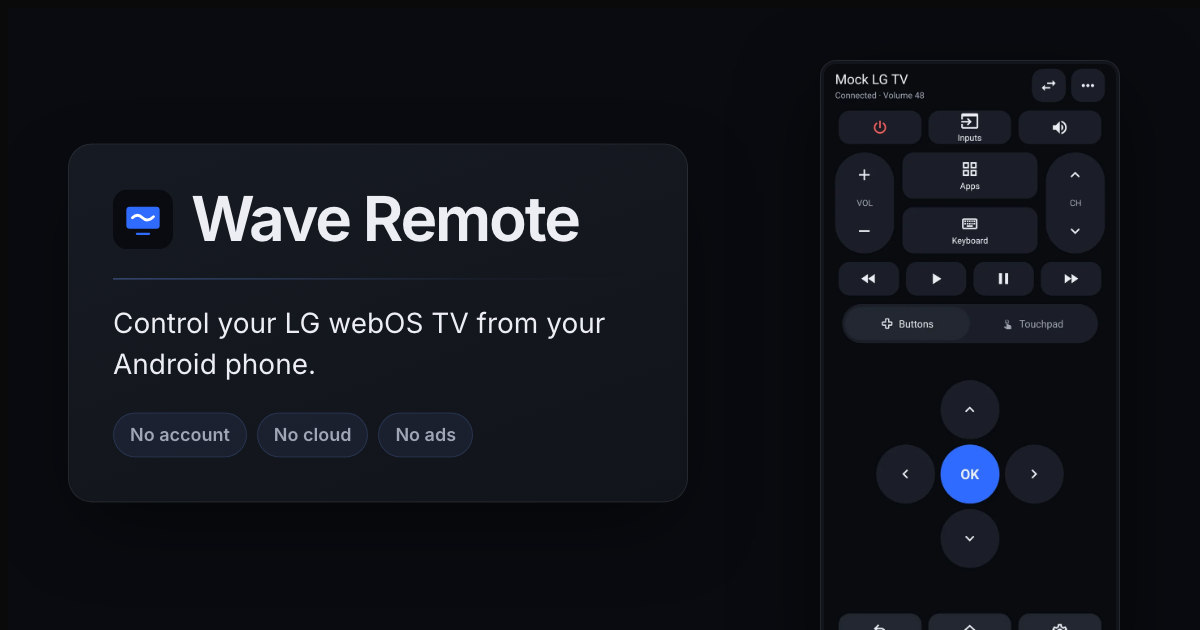
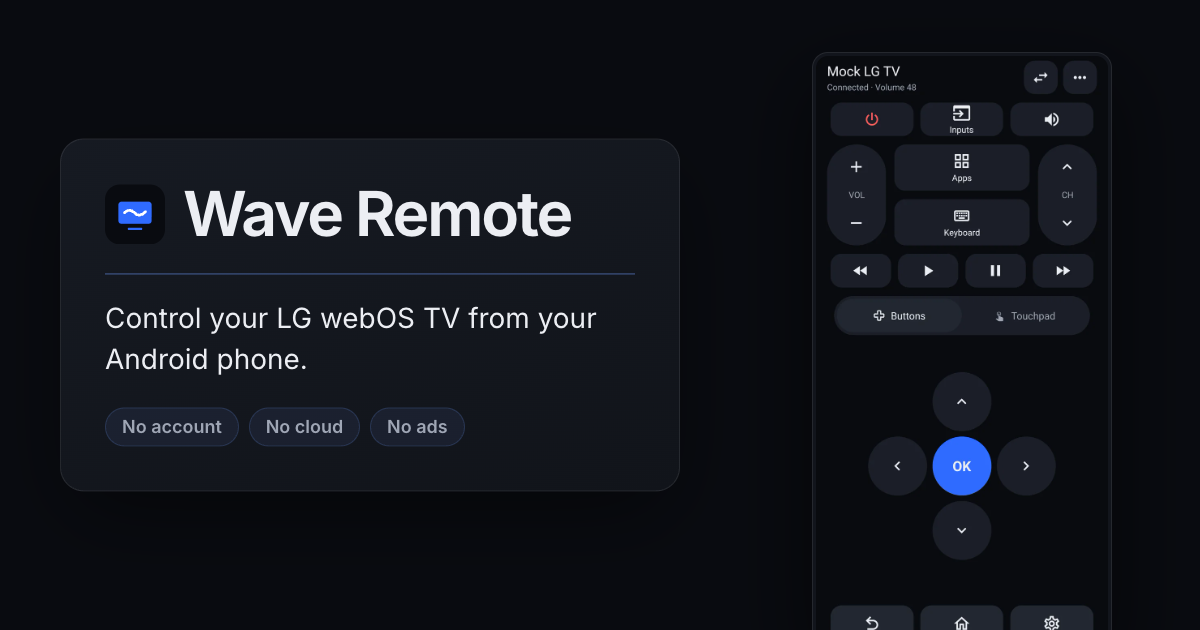
Render the README cover from the site brand card

diff --git a/site/og/card.html b/site/og/card.html
@@ -1,24 +1,24 @@
 <!doctype html>
-<!-- Link preview card (1200×630). Rendered to public/og.png by og/render.cjs. -->
+<!-- Brand card. Rendered by og/render.sh at 1200×630 (public/og.png) and 1280×640 (README cover). -->
 <html lang="en">
 <head>
 <meta charset="utf-8">
 <style>
   @font-face { font-family: 'Inter'; src: url('../node_modules/@fontsource-variable/inter/files/inter-latin-wght-normal.woff2') format('woff2'); font-weight: 100 900; }
   * { margin: 0; box-sizing: border-box; }
-  html, body { width: 1200px; height: 630px; overflow: hidden; }
+  html, body { width: 100vw; height: 100vh; overflow: hidden; }
   body { color: #eceef3; font-family: 'Inter', sans-serif; position: relative; -webkit-font-smoothing: antialiased;
     background: #090b10; }
-  .card { position: absolute; left: 60px; top: 50%; transform: translateY(-50%); width: 620px; padding: 44px; border-radius: 24px; border: 1px solid rgb(255 255 255 / 0.08);
+  .card { position: absolute; left: 5vw; top: 50%; transform: translateY(-50%); width: 51.67vw; padding: 3.67vw; border-radius: 2vw; border: 1px solid rgb(255 255 255 / 0.08);
     background: linear-gradient(160deg, #161a22, #11141a); box-shadow: 0 30px 80px -20px rgb(0 0 0 / 0.55); }
-  h1 { display: flex; align-items: center; gap: 18px; font-weight: 650; font-size: 62px; line-height: 1; letter-spacing: -0.035em; white-space: nowrap; }
-  h1 img { width: 60px; height: 60px; border-radius: 15px; }
-  .rule { height: 1px; margin: 28px 0 24px; background: linear-gradient(90deg, rgb(110 155 255 / 0.55), rgb(110 155 255 / 0.08) 70%, transparent); }
-  p { font-size: 28px; line-height: 1.45; font-weight: 400; max-width: 21em; }
-  .chips { margin-top: 28px; display: flex; gap: 10px; }
-  .chips span { padding: 8px 16px; border-radius: 999px; background: rgb(110 155 255 / 0.08); border: 1px solid rgb(110 155 255 / 0.16); font-size: 18px; font-weight: 600; color: #9fa6b5; }
-  .phone { position: absolute; left: 812px; top: 52px; width: 300px; padding: 4px; border-radius: 16px; background: #12151c; box-shadow: inset 0 0 0 1px rgb(255 255 255 / 0.08), 0 30px 80px rgb(0 0 0 / 0.55); }
-  .phone img { display: block; width: 100%; border-radius: 12px; }
+  h1 { display: flex; align-items: center; gap: 1.5vw; font-weight: 650; font-size: 5.17vw; line-height: 1; letter-spacing: -0.035em; white-space: nowrap; }
+  h1 img { width: 5vw; height: 5vw; border-radius: 1.25vw; }
+  .rule { height: 1px; margin: 2.33vw 0 2vw; background: rgb(110 155 255 / 0.55); }
+  p { font-size: 2.33vw; line-height: 1.45; font-weight: 400; max-width: 21em; }
+  .chips { margin-top: 2.33vw; display: flex; gap: 0.83vw; }
+  .chips span { padding: 0.67vw 1.33vw; border-radius: 999px; background: rgb(110 155 255 / 0.08); border: 1px solid rgb(110 155 255 / 0.16); font-size: 1.5vw; font-weight: 600; color: #9fa6b5; }
+  .phone { position: absolute; left: 67.67vw; top: 8.25vh; width: 25vw; padding: 0.33vw; border-radius: 1.33vw; background: #12151c; box-shadow: inset 0 0 0 1px rgb(255 255 255 / 0.08), 0 30px 80px rgb(0 0 0 / 0.55); }
+  .phone img { display: block; width: 100%; border-radius: 1vw; }
 </style>
 </head>
 <body>

diff --git a/site/README.md b/site/README.md
@@ -7,7 +7,7 @@ https://remote.vwave.me is the one-page download site: the APK download, an Add 
 - **Hosting:** Cloudflare Worker `wave-remote` on the `vwave.me` zone ([`wrangler.jsonc`](wrangler.jsonc)). Static files come from Vite's `dist/`.
 - **Release data:** [`worker/index.tsx`](worker/index.tsx) reads the latest GitHub release through the GitHub API, cached at the edge for ten minutes. It server-renders `/` with that release and embeds it so React hydrates without a flash, redirects `/download` to the `wave-remote-v*.apk` asset, and serves `/latest.json`. If GitHub can't be reached, the page shows generic text and `/download` opens the releases page.
 - **Screenshots:** `public/screens/*.webp` are scaled from `../docs/screenshots`; refresh them when the UI changes. Their `.json` sidecars record where they came from.
-- **Link preview:** `public/og.png` (1200×630) is rendered from [`og/card.html`](og/card.html) with the Buttons screenshot. After editing either, start a Chromium with `--remote-debugging-port=9222`, run `node og/render.cjs` with `playwright-core` available (set `CDP_URL` for another host), and commit the PNG.
+- **Brand art:** [`og/card.html`](og/card.html) is the brand card, with the Buttons screenshot. After editing either, run `og/render.sh` (headless Chrome; set `CHROME` for another binary) to write `public/og.png` (1200×630 link preview) and `../docs/brand/cover.png` (README cover, 1600 px wide), and commit both PNGs.
 
 Run `bun run dev` from the repository root or this directory to develop the site at
 http://localhost:4000. The Vite dev server renders the UI with generic release text;

diff --git a/docs/RELEASING.md b/docs/RELEASING.md
@@ -73,7 +73,7 @@ Do every step, in order. A version isn't done until the download site shows it.
    - `docs/screenshots/buttons.png` and `touchpad.png`: `adb exec-out screencap -p`, cropped to 1080×2170 from the top of the header to the bottom of the Back/Home/Settings row (on a 1080×2400 Pixel 7, `crop=1080:2170:0:140`).
    - `fastlane/metadata/android/en-US/images/phoneScreenshots/1.png` and `2.png`: copies of `buttons.png` and `touchpad.png`, for F-Droid and IzzyOnDroid.
    - `site/public/screens/*.webp`: scaled from those to 720 px wide, e.g. `ffmpeg -i ../docs/screenshots/buttons.png -vf scale=720:-1:flags=lanczos -c:v libwebp -quality 85 buttons.webp`. Update the version and date in each `.webp.json` sidecar.
-   - `site/public/og.png`: re-render with `node og/render.cjs` (see [site/README.md](../site/README.md)) and look at the result.
+   - `site/public/og.png` and `docs/brand/cover.png`: re-render with `og/render.sh` (see [site/README.md](../site/README.md)) and look at the result.
 5. Commit and push `main`, then create and push the matching tag:
 
 ```sh

diff --git a/README.md b/README.md
@@ -1,5 +1,5 @@
 <p align="center">
-  <img src="docs/brand/cover.svg" alt="Wave Remote: control your LG webOS TV from your Android phone, over your own Wi-Fi." width="100%">
+  <img src="docs/brand/cover.png" alt="Wave Remote: control your LG webOS TV from your Android phone, over your own Wi-Fi." width="100%">
 </p>
 
 <p align="center">
